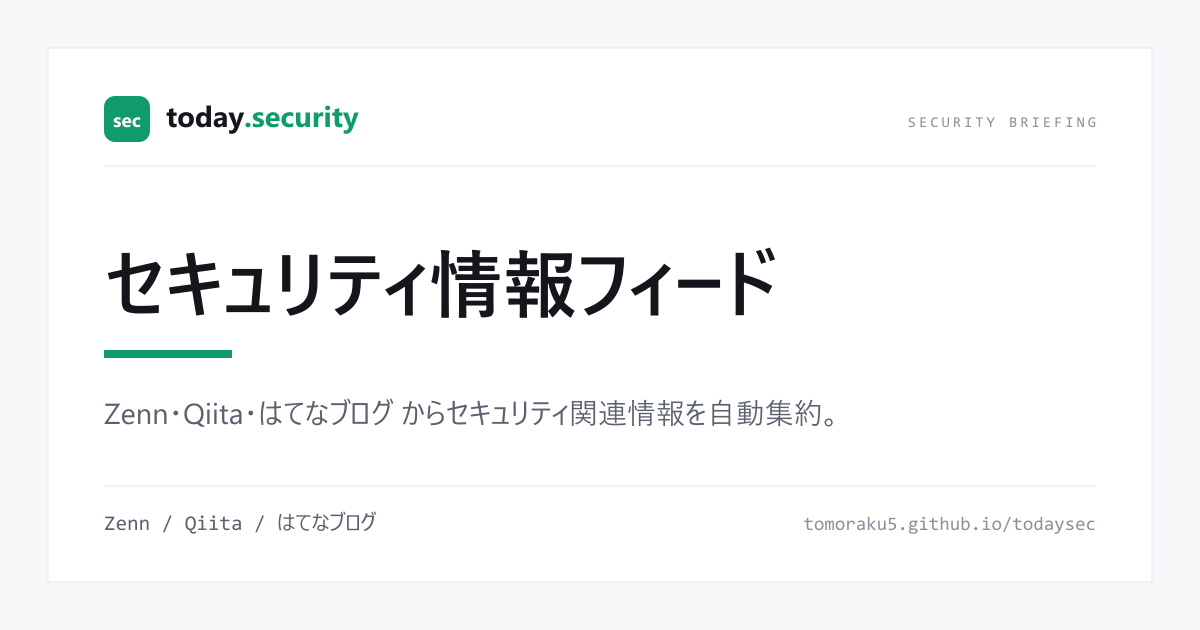
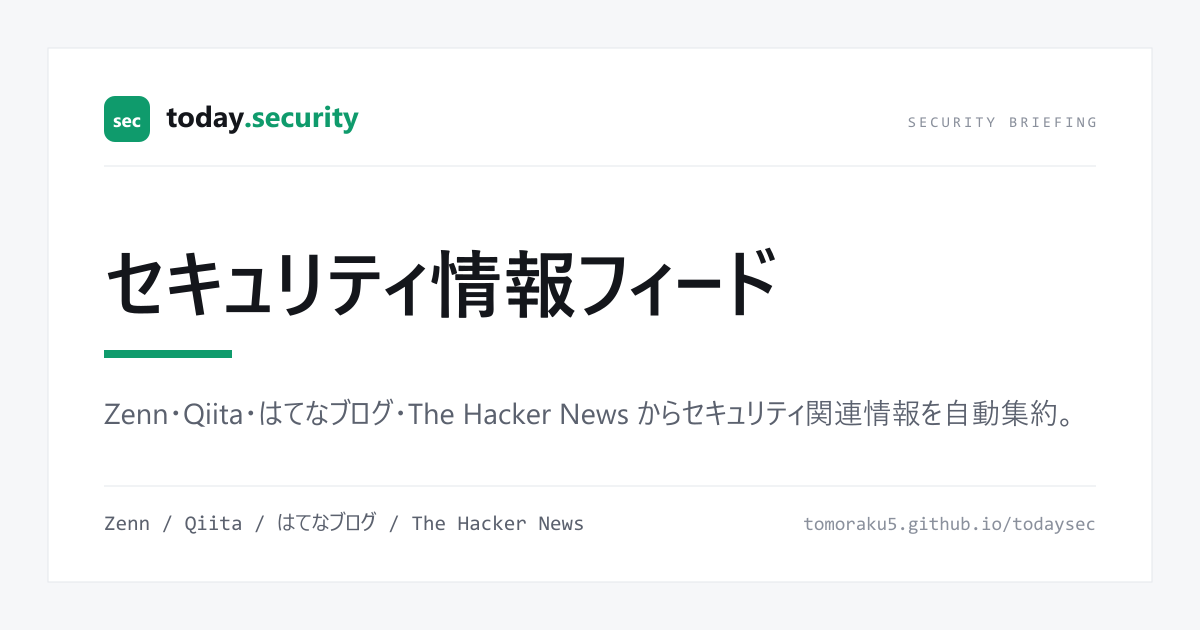
docs: The Hacker News 追加に伴うドキュメントと OGP 画像を更新
チェックリスト3（手で更新が必要なもの）を実施。

- README.md: 冒頭の説明文、「有効（3ソース）」→「有効（4ソース）」と表、
  英語ソースであることと FeedBurner 転送の注記
- CLAUDE.md: 「現在有効なソース（4ソース）」の表、「ソース別の要点」に
  The Hacker News の節（別サービス注意 / FeedBurner 一本化とその弱点 /
  フィードのフィールド / 投稿頻度と limit の根拠 / 記事ページ取得可 /
  英語混在 / バッジ色の根拠）、凡例の有効ソース列挙を4つに更新
- public/og-default.png: 再生成（1200x630）。スクリプトが SOURCES を読むので
  文言修正は不要で、実行するだけで4ソースに追従した

あわせて、今回チェックリストを実際に使って見つかった不備を修正:
- 項目7（enrichArticles）が「サムネが無いソースは追加」としか書いておらず、
  この関数のもう一つの役割（要約用の本文取得）が抜けていた。THN のように
  サムネがあるソースを誤って対象外にしてしまうため、両方の役割と
  「記事ページが 200 を返すか実測する」を追記
- 項目8（retentionMax の決め方）が無かったので追加
- 項目3の CLAUDE.md 欄に、見出しの「（N ソース）」と「ソース別の要点」凡例の
  有効ソース列挙も対象だと明記（どちらも自動生成されず必ずズレる）

Changed region(s): [[0.3392, 0.6333, 0.8942, 0.6937], [0.3392, 0.8143, 0.4933, 0.8444]]

diff --git a/README.md b/README.md
@@ -1,8 +1,8 @@
 # today.security — セキュリティ情報フィード集約サイト
 
 **Zenn**「security」トピック、**Qiita**「Security」「認証」タグ、**はてなブログ**の
-セキュリティ専門ブログからセキュリティ関連情報を自動集約し、時系列の統合タイムラインとして
-表示する静的サイト（GitHub Pages）。
+セキュリティ専門ブログ、**The Hacker News**（英語）からセキュリティ関連情報を自動集約し、
+時系列の統合タイムラインとして表示する静的サイト（GitHub Pages）。
 
 - 公開URL: <https://tomoraku5.github.io/todaysec/>
 - 基盤: Astro 5 + Tailwind v4 + TypeScript
@@ -68,13 +68,14 @@ npx tsx scripts/generateOgImage.ts
 
 `feeds.config.ts` で設定します。
 
-### 有効（3ソース）
+### 有効（4ソース）
 
 | source | 取得元 | 設定 |
 |------|------|------|
 | `zenn` | `zenn.dev/topics/security/feed` | `zenn.rssUrls` |
 | `qiita` | `qiita.com/tags/security/feed`<br>`qiita.com/tags/認証/feed` | `qiita.rssUrls` |
 | `hatenablog` | `piyolog.hatenadiary.jp/feed`（piyolog）<br>`foxsecurity.hatenablog.com/feed`（Fox on Security）<br>`blog.flatt.tech/feed`（GMO Flatt Security） | `hatenablog.rssUrls` |
+| `thehackernews` | `feeds.feedburner.com/TheHackersNews`（The Hacker News・英語） | `thehackernews.rssUrls` |
 
 **`rssUrls` は配列**なので、タグ・トピック・ブログを増やしたいときは URL を足すだけです。
 
@@ -84,6 +85,12 @@ npx tsx scripts/generateOgImage.ts
 - 日本語のタグ URL（`.../tags/認証/feed`）は**そのまま書いて構いません**。
   プログラム側で自動的にエンコードされます
 - 同じ記事が複数のタグに出ても、記事 URL をキーに重複排除されて 1 件になります
+
+> **The Hacker News は英語のニュースサイト**です。日本語記事に混じって英語の見出しが
+> 並びます（翻訳機能は現在無効なので原文のまま表示されます）。1日あたり約10件と多めですが、
+> `limit` は「1URLあたり20件」で6時間ごとに取得するので取りこぼしません。
+> サイトの `/rss.xml` などはすべて FeedBurner に転送されるため、設定には転送先の
+> URL を直接書いています。
 
 > **はてなブログだけ「個別ブログのURLを並べる」方式**にしています。はてなブログには
 > Zenn/Qiita のような「全ブログ横断で特定タグの新着を取るフィード」が存在せず、
